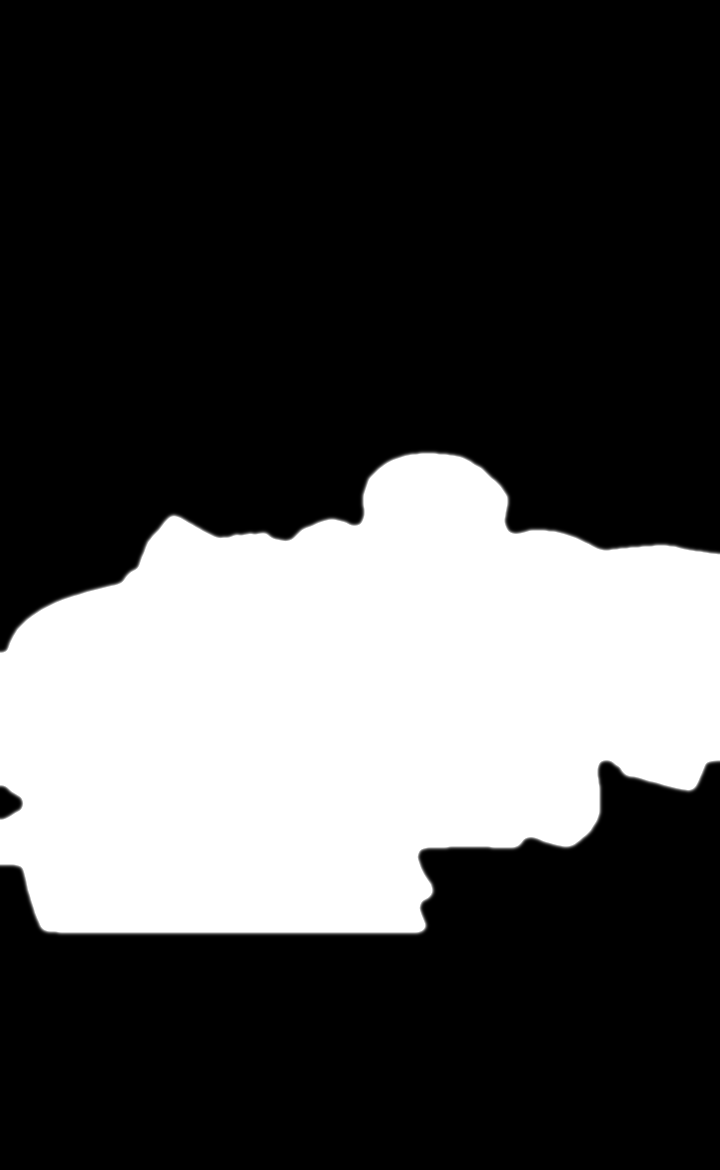
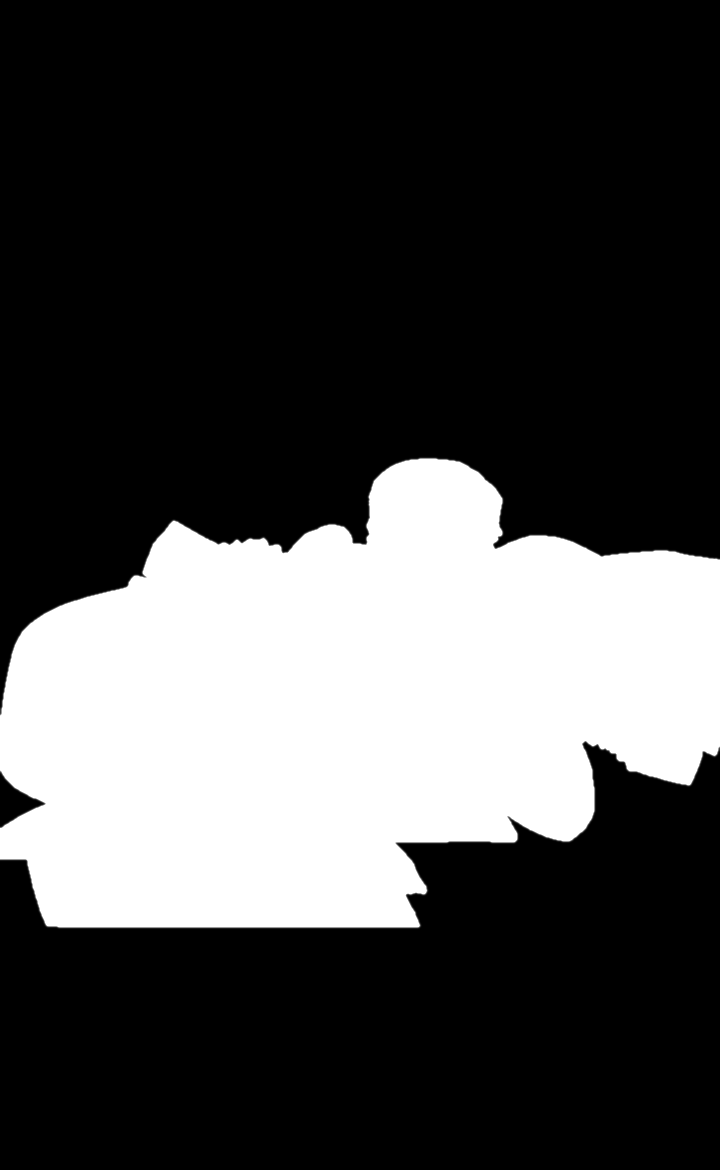
Stop the patch trailing the wall on fast moves, and tighten the mask
Tracking used filterBeta 0.01, which keeps the one-euro filter heavily
smoothed even while the camera moves, so all AR content lagged behind
the wall and the painted woman showed beside the patch on quick moves.
Back to MindAR's default (1000): steady when still, quick to catch up.
`?beta=<n>` overrides it for on-site tuning.

The patch mask now follows the figures' own outlines (1 px grow, 2 px
feather, no gap filling) instead of an expanded blob.

Claude-Session: https://claude.ai/code/session_01RouHSYv8qPPNE8MxgB7oeC

diff --git a/src/ar/AREngine.ts b/src/ar/AREngine.ts
@@ -60,7 +60,16 @@ export interface AREngineOptions {
    * nearer the wall.
    */
   targetRegions?: [number, number, number, number][];
+  /**
+   * How quickly tracking catches up when the camera moves (MindAR one-euro
+   * filter beta). Higher = less lag on fast moves; still steady when holding
+   * still. Default: 1000 (MindAR's default).
+   */
+  filterBeta?: number;
 }
+
+/** MindAR's own default; a very low beta makes the content trail the wall on fast moves. */
+const DEFAULT_FILTER_BETA = 1000;
 
 type Region = [number, number, number, number];
 
@@ -99,8 +108,8 @@ export class AREngine {
       uiLoading: 'no',
       uiScanning: 'no',
       uiError: 'no',
-      filterMinCF: 0.001,  // Balanced cutoff frequency: eliminates static jitter without introducing motion lag
-      filterBeta: 0.01,    // Responsive tracking catch-up on movement
+      filterMinCF: 0.001, // Low cutoff when still: no static jitter
+      filterBeta: options.filterBeta ?? DEFAULT_FILTER_BETA, // Fast catch-up when moving, so content doesn't trail the wall
       warmupTolerance: 5,
       missTolerance: 5,
     });

diff --git a/src/main.ts b/src/main.ts
@@ -41,6 +41,14 @@ function getDepthScaleOverride(): number | undefined {
   return Number.isFinite(value) && value >= 0 ? value : undefined;
 }
 
+/** `?beta=<n>` overrides how quickly tracking catches up on fast moves (for on-site tuning). */
+function getFilterBetaOverride(): number | undefined {
+  const raw = new URLSearchParams(window.location.search).get('beta');
+  if (raw === null) return undefined;
+  const value = Number(raw);
+  return Number.isFinite(value) && value >= 0 ? value : undefined;
+}
+
 /**
  * Prime all video elements for iOS playback.
  * iOS Safari requires video.play() to be called within a user gesture.
@@ -227,6 +235,7 @@ async function main(): Promise<void> {
         },
         aspectRatio: config.aspectRatio,
         targetRegions: config.targetRegions,
+        filterBeta: getFilterBetaOverride(),
       });
 
       currentEngine = engine;

diff --git a/tools/make_patch_mask.py b/tools/make_patch_mask.py
@@ -46,8 +46,9 @@ def main() -> None:
     ap.add_argument('--dir', required=True)
     ap.add_argument('--layers', nargs='+', required=True)
     ap.add_argument('--bands', type=int, default=3)
-    ap.add_argument('--grow', type=int, default=14, help='px to grow the silhouettes by')
-    ap.add_argument('--feather', type=int, default=10, help='px of soft edge')
+    ap.add_argument('--grow', type=int, default=1, help='px to grow the silhouettes by')
+    ap.add_argument('--feather', type=int, default=2, help='px of soft edge')
+    ap.add_argument('--close', type=int, default=0, help='px gaps between shapes to fill (0 = none)')
     ap.add_argument('--out', required=True)
     args = ap.parse_args()
 
@@ -57,11 +58,12 @@ def main() -> None:
             m = alpha > 40
             union = m if union is None else union | m
     mask = union.astype(np.uint8)
-    # Fill small holes and gaps between shapes, then grow.
-    k = cv2.getStructuringElement(cv2.MORPH_ELLIPSE, (31, 31))
-    mask = cv2.morphologyEx(mask, cv2.MORPH_CLOSE, k)
-    g = 2 * args.grow + 1
-    mask = cv2.dilate(mask, cv2.getStructuringElement(cv2.MORPH_ELLIPSE, (g, g)))
+    if args.close > 0:
+        c = 2 * args.close + 1
+        mask = cv2.morphologyEx(mask, cv2.MORPH_CLOSE, cv2.getStructuringElement(cv2.MORPH_ELLIPSE, (c, c)))
+    if args.grow > 0:
+        g = 2 * args.grow + 1
+        mask = cv2.dilate(mask, cv2.getStructuringElement(cv2.MORPH_ELLIPSE, (g, g)))
     soft = cv2.GaussianBlur(mask.astype(np.float32), (0, 0), max(args.feather / 2, 0.1))
     # Keep the grown edge at full strength; fade only outside it.
     soft = np.clip(soft * 2, 0, 1)
